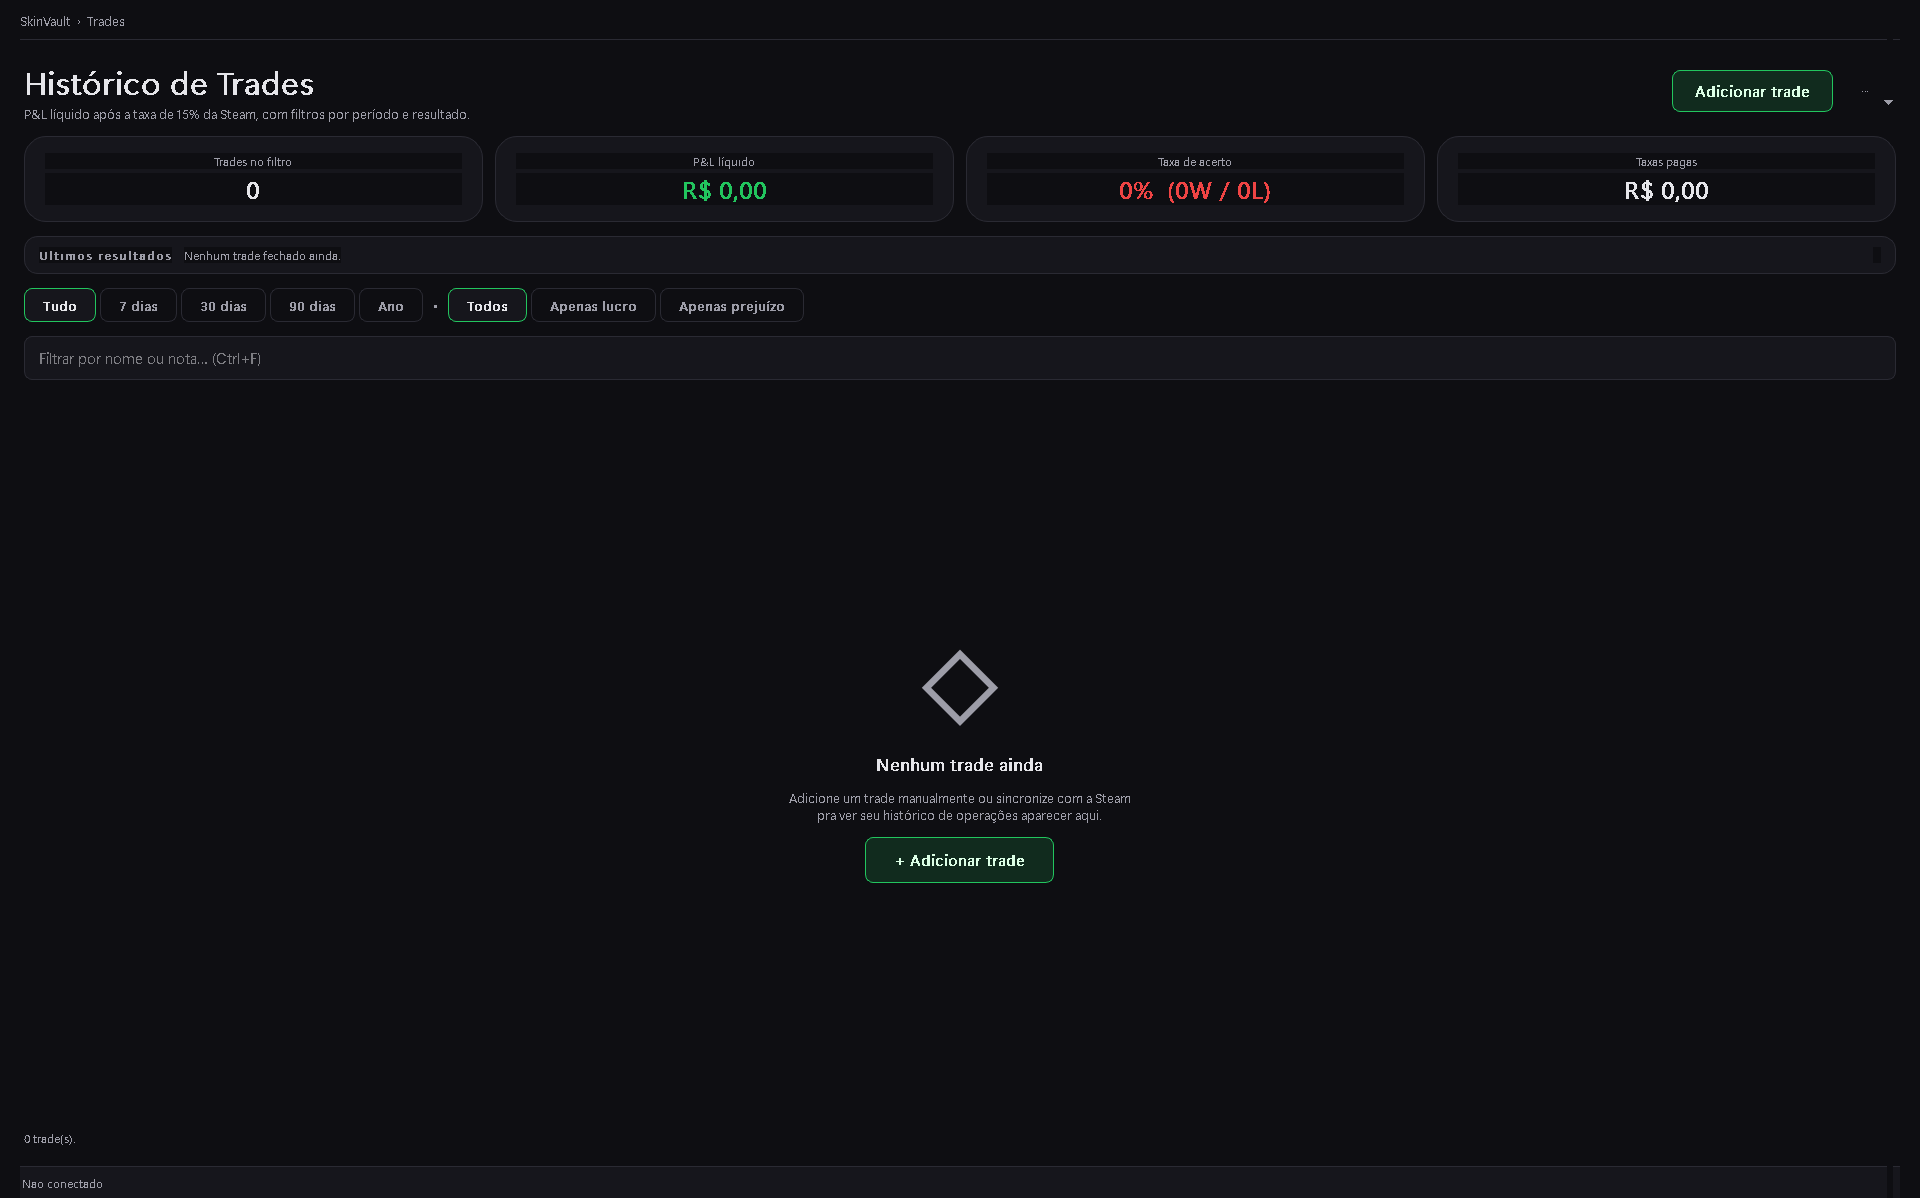
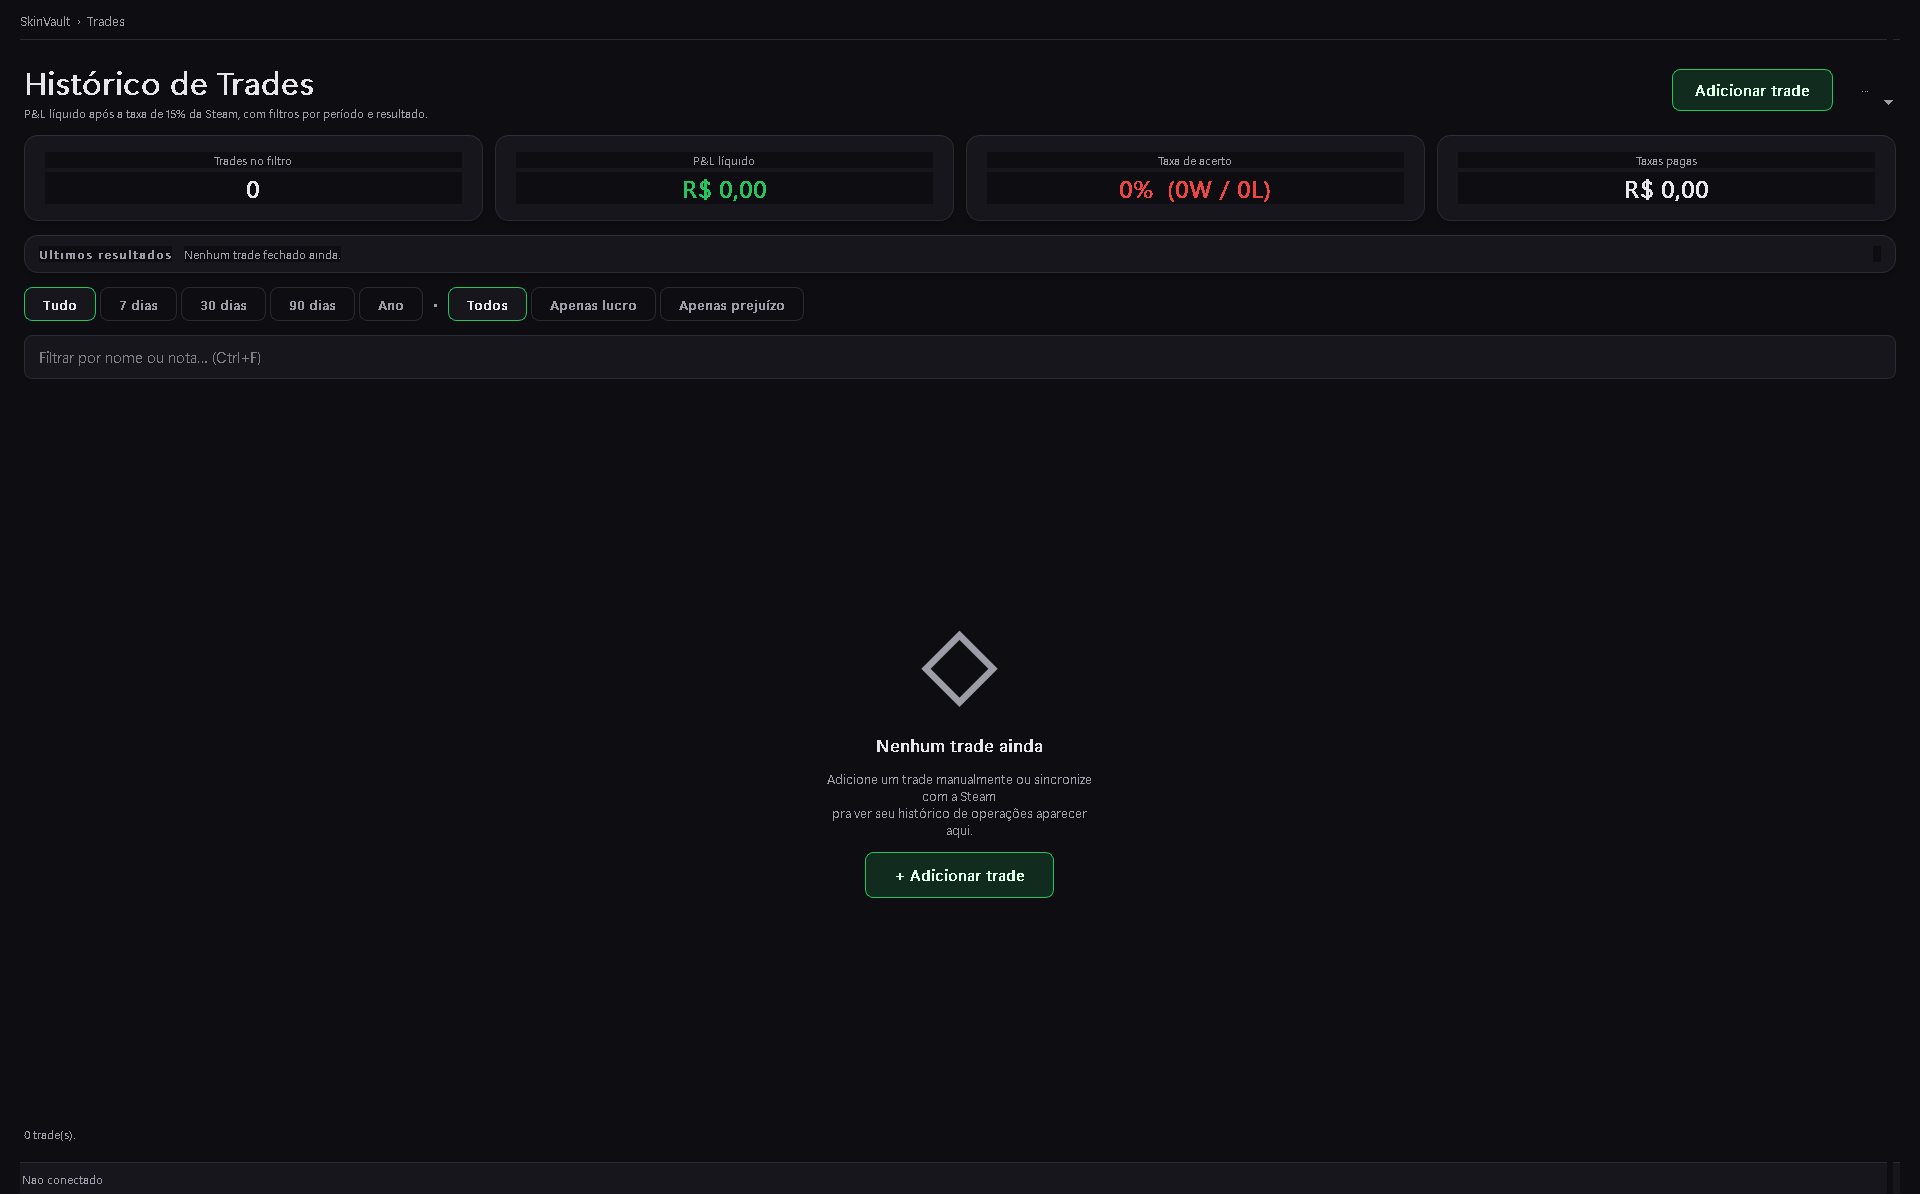
ui: sidebar active state em accent + Card padding default padronizado
- _SidebarItem: estado checked agora usa ACCENT verde + font-weight 700;
  idle reserva border-left transparente para evitar jump de padding
- Card: padding default vai de (16,14,16,14) para (20,18,20,18); telas
  removem o override redundante (account/market/simulador/welcome)
- StatCard: literal radius 22 -> t.RADIUS_LG
- theme.card_style: border-top sutil (#30303A) para hierarquia visual
- scanner_screen: setSpacing 12 -> 14 (respiro entre toolbar e stat cards)
- account_screen: setSpacing 16 -> 14, header Card sem override

Avaliado QGraphicsDropShadowEffect em 3 variantes — invisivel em dark
theme com custo de rasterizacao; descartado em favor do top-highlight.

Changed region(s): [[0.4062, 0.6198, 0.5938, 0.7747], [0.0312, 0.093, 0.25, 0.124], [0.4688, 0.5268, 0.5312, 0.5888]]

diff --git a/skinvault/ui/components.py b/skinvault/ui/components.py
@@ -123,7 +123,7 @@ class Card(QFrame):
     inserir conteudo."""
 
     def __init__(self, parent: QWidget | None = None,
-                 padding: tuple[int, int, int, int] = (16, 14, 16, 14),
+                 padding: tuple[int, int, int, int] = (20, 18, 20, 18),
                  radius: int = 14) -> None:
         super().__init__(parent)
         self.setObjectName("Card")
@@ -146,7 +146,7 @@ class StatCard(Card):
     def __init__(self, label: str, value: str = "—",
                  accent: str = t.TEXT,
                  parent: QWidget | None = None) -> None:
-        super().__init__(parent, padding=(20, 16, 20, 16), radius=22)
+        super().__init__(parent, padding=(20, 16, 20, 16), radius=t.RADIUS_LG)
         self.layout().setSpacing(4)
         self._label = QLabel(label)
         self._label.setAlignment(Qt.AlignmentFlag.AlignCenter)
@@ -188,12 +188,14 @@ class _SidebarItem(QPushButton):
     def _style_idle(self) -> str:
         return (
             f"QPushButton {{ color: {t.TEXT_MUTED}; background: transparent;"
-            f" border: none; text-align: left; padding-left: 14px;"
+            f" border: none; text-align: left; padding-left: 11px;"
+            f" border-left: 3px solid transparent;"
             f" font-size: {t.FS_BODY}; font-weight: 500;"
             f" font-family: {t.FONT_FAMILY}; }}"
             f"QPushButton:hover {{ color: {t.TEXT}; background: {t.SURFACE}; }}"
-            f"QPushButton:checked {{ color: {t.TEXT}; background: {t.SURFACE};"
-            f" border-left: 3px solid {t.ACCENT}; padding-left: 11px; }}"
+            f"QPushButton:checked {{ color: {t.ACCENT}; background: {t.SURFACE};"
+            f" font-weight: 700;"
+            f" border-left: 3px solid {t.ACCENT}; }}"
         )
 
     def _on_toggled(self, checked: bool) -> None:

diff --git a/skinvault/ui/market_screen.py b/skinvault/ui/market_screen.py
@@ -203,7 +203,7 @@ class MarketScreen(QWidget):
         charts_row = QHBoxLayout()
         charts_row.setSpacing(12)
 
-        spark_card = Card(self, padding=(20, 18, 20, 18))
+        spark_card = Card(self)
         spark_lay = QVBoxLayout()
         spark_lay.setSpacing(8)
         spark_hdr = QHBoxLayout()
@@ -230,7 +230,7 @@ class MarketScreen(QWidget):
         spark_card.layout().addLayout(spark_lay)
         charts_row.addWidget(spark_card, 1)
 
-        depth_card = Card(self, padding=(20, 18, 20, 18))
+        depth_card = Card(self)
         depth_lay = QVBoxLayout()
         depth_lay.setSpacing(8)
         depth_hdr = QHBoxLayout()
@@ -260,7 +260,7 @@ class MarketScreen(QWidget):
         content_lay.addLayout(charts_row)
 
         # ── Detail card ───────────────────────────────────
-        detail_card = Card(self, padding=(20, 18, 20, 18))
+        detail_card = Card(self)
         detail_lay = QVBoxLayout()
         detail_lay.setSpacing(10)
 

diff --git a/skinvault/ui/simulador_screen.py b/skinvault/ui/simulador_screen.py
@@ -92,7 +92,7 @@ class SimuladorScreen(QWidget):
         )
 
         # ── Card de inputs ────────────────────────────────
-        card = Card(self, padding=(20, 18, 20, 18))
+        card = Card(self)
         params = QVBoxLayout()
         params.setSpacing(12)
 
@@ -153,7 +153,7 @@ class SimuladorScreen(QWidget):
         root.addWidget(card)
 
         # ── Card de resultado ─────────────────────────────
-        result_card = Card(self, padding=(20, 18, 20, 18))
+        result_card = Card(self)
         rl = QVBoxLayout()
         rl.setSpacing(8)
 

diff --git a/skinvault/ui/account_screen.py b/skinvault/ui/account_screen.py
@@ -103,10 +103,10 @@ class AccountScreen(QWidget):
     def _build(self) -> None:
         root = QVBoxLayout(self)
         root.setContentsMargins(24, 20, 24, 20)
-        root.setSpacing(16)
+        root.setSpacing(14)
 
         # Header card
-        header = Card(self, padding=(20, 18, 20, 18))
+        header = Card(self)
         hlay = QHBoxLayout()
         hlay.setSpacing(18)
 

diff --git a/skinvault/ui/theme.py b/skinvault/ui/theme.py
@@ -215,7 +215,9 @@ def table_style() -> str:
 def card_style(radius: int = 10) -> str:
     return (
         f"QWidget#Card {{ background: {BG_ELEVATED};"
-        f" border: 1px solid {BORDER}; border-radius: {radius}px; }}"
+        f" border: 1px solid {BORDER};"
+        f" border-top: 1px solid #30303A;"
+        f" border-radius: {radius}px; }}"
     )
 
 

diff --git a/skinvault/ui/welcome_dialog.py b/skinvault/ui/welcome_dialog.py
@@ -19,7 +19,7 @@ from skinvault.ui.components import Card
 
 
 def _feature_card(icon: str, title: str, desc: str) -> Card:
-    card = Card(padding=(20, 18, 20, 18), radius=14)
+    card = Card()
     icn = QLabel(icon)
     icn.setAlignment(Qt.AlignmentFlag.AlignCenter)
     icn.setStyleSheet(

diff --git a/skinvault/ui/scanner_screen.py b/skinvault/ui/scanner_screen.py
@@ -792,7 +792,7 @@ class ScannerScreen(QWidget):
     def _build(self) -> None:
         root = QVBoxLayout(self)
         root.setContentsMargins(24, 20, 24, 20)
-        root.setSpacing(12)
+        root.setSpacing(14)
 
         tb = Toolbar()
         tb.add_left(
